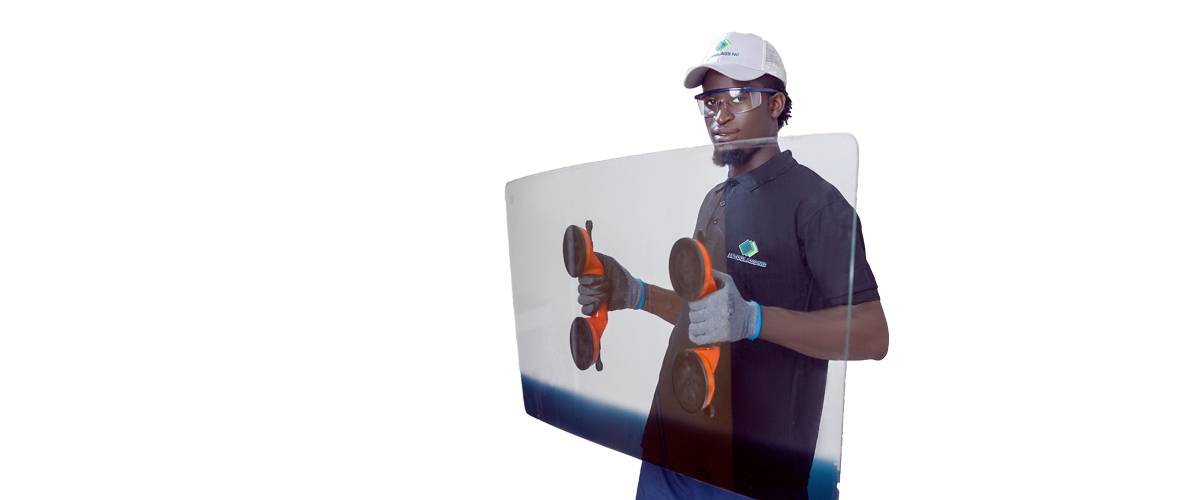
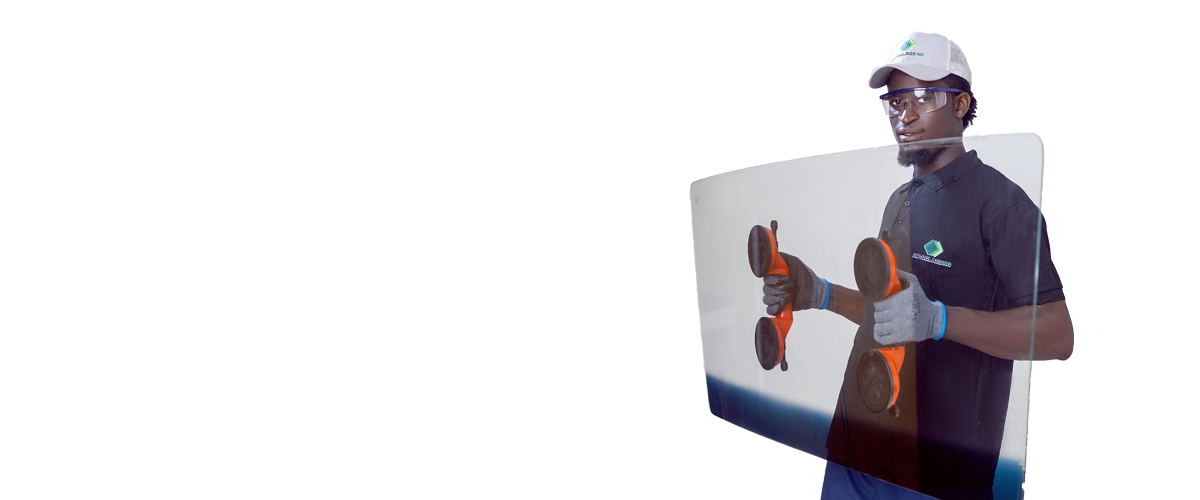
fix

diff --git a/public/css/custom.css b/public/css/custom.css
@@ -14,3 +14,35 @@
 .rounded-custom {
     border-radius: 102px !important;
 }
+
+.image-container {
+    width: 100%; /* Or any specific width */
+    height: 100%; /* Or any specific height */
+    position: relative;
+    overflow: hidden;
+}
+
+.image-container img {
+    width: 100%;
+    height: auto;
+    object-fit: cover; /* Ensures the image covers the container */
+    position: absolute;
+    top: 0;
+    left: 0;
+}
+
+.image-container {
+    width: 500px;
+    height: 300px;
+    position: relative;
+    overflow: hidden;
+}
+
+.image-container img {
+    width: 100%;
+    height: auto;
+    object-fit: cover;
+    position: absolute;
+    top: 0;
+    left: 0;
+}

diff --git a/resources/views/index.blade.php b/resources/views/index.blade.php
@@ -45,7 +45,7 @@
 							data-appear-animation-delay="1450"
 							data-plugin-options="{'accY': -200}">
 						<div class="position-relative">
-							<div data-plugin-float-element
+							<div class="image-container" data-plugin-float-element
 								data-plugin-options="{'startPos': 'top', 'speed': 0.2, 'transition': true, 'transitionDuration': 1000, 'isInsideSVG': true}">
 							<img src="/images/banners/repair_glass_autoglassng.jpg" class="img-fluid rounded mb-3 " alt="" />
 							</div>
